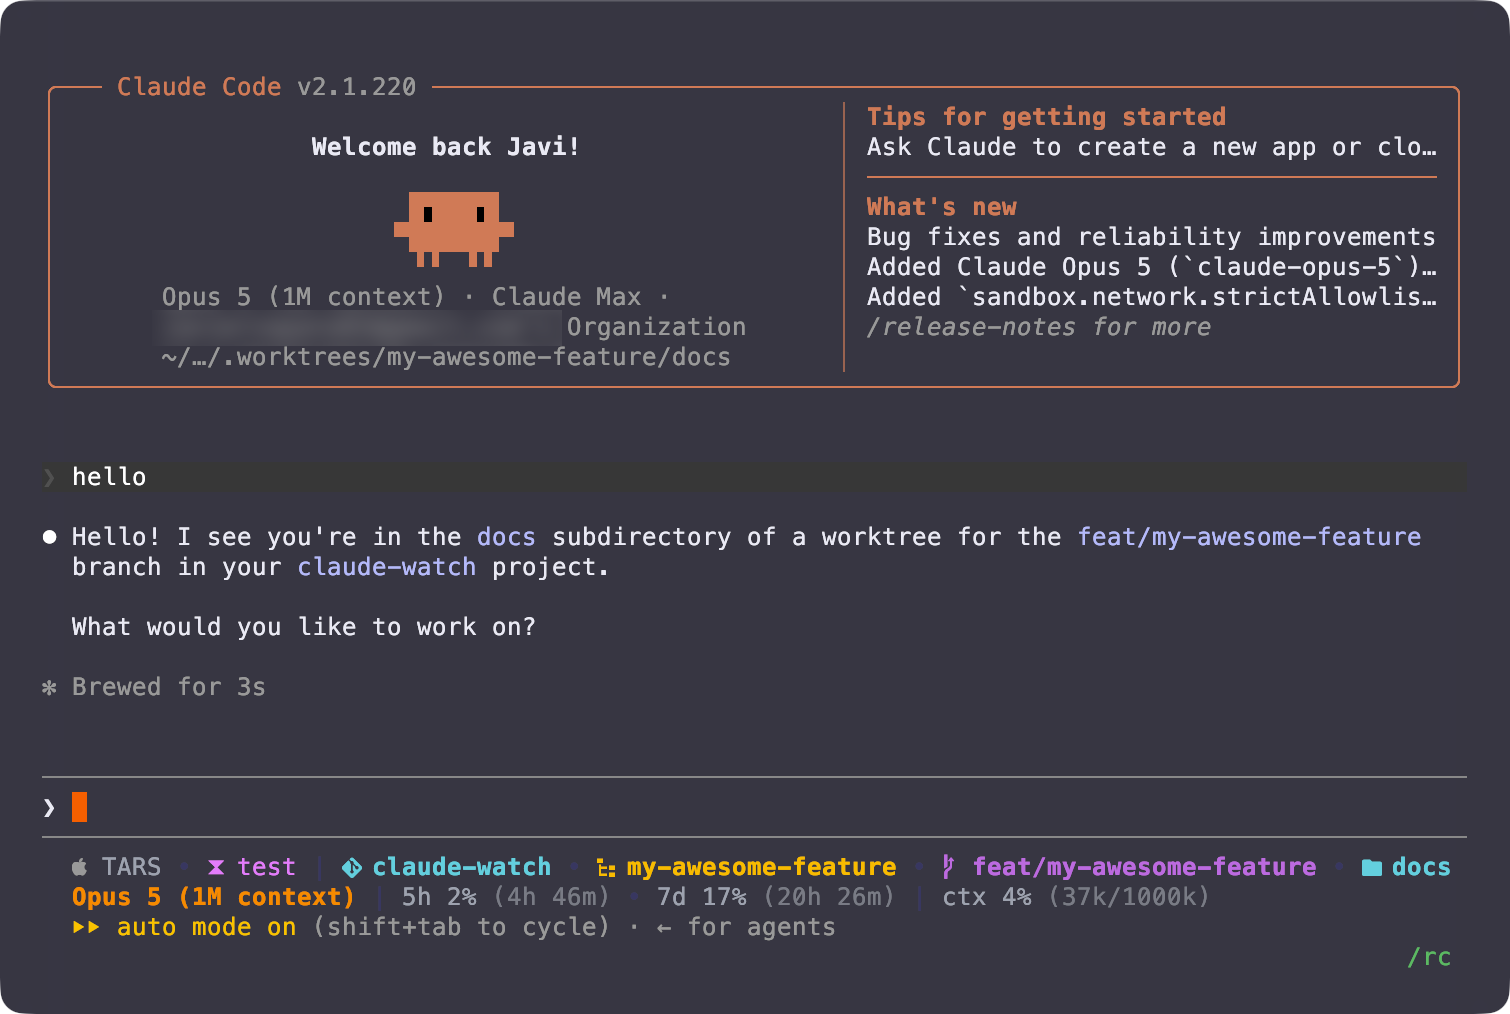
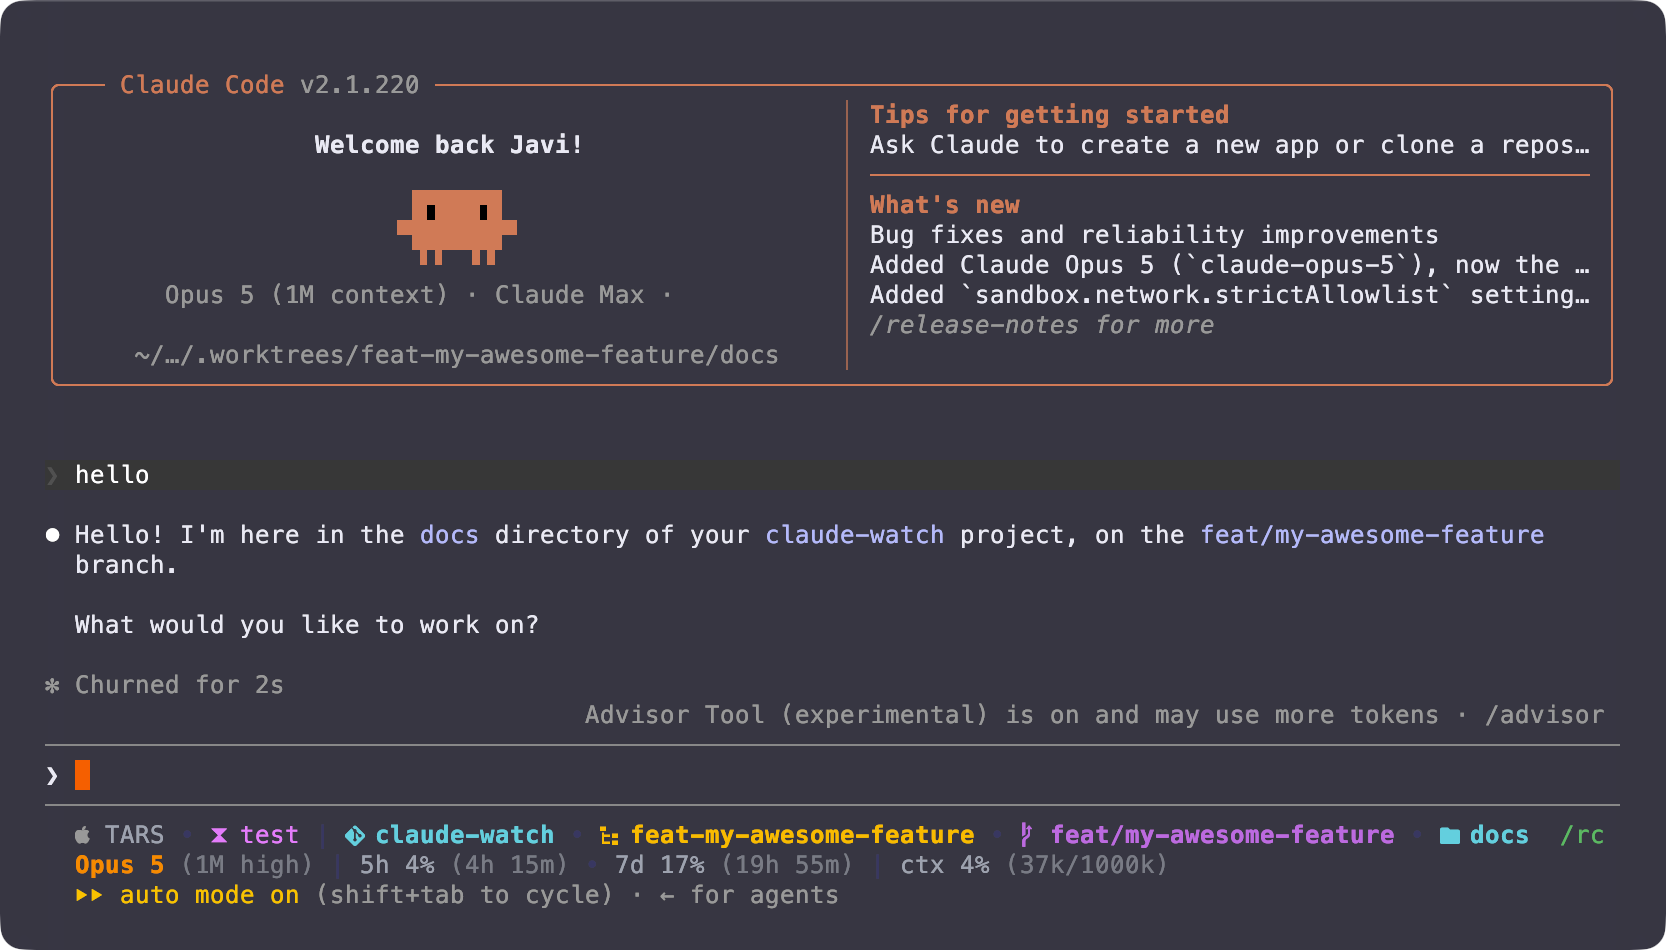
Read usage stats from Claude Code instead of the OAuth API
Claude Code now pipes rate_limits in on stdin, so the statusline no longer
needs to fetch them itself. Drop fetch-usage.sh together with its PreToolUse
and Stop hooks, its usage cache, and its /tmp token cache — the last of which
parked a live bearer token in a world-readable file for 15 minutes at a time.

resets_at arrives as epoch seconds rather than ISO-8601, so compute_delta
becomes pure arithmetic and the BSD-vs-GNU date branch goes away.

Also:

- Add reasoning effort to the model segment, as a dim suffix sharing the
  parenthetical with the 1M-context marker: "Opus 5 (1M high)".
- Round percentages in jq, never with printf "%.0f". printf's float parsing
  honours LC_NUMERIC, so under a comma-decimal locale (es_ES, de_DE, fr_FR)
  bash wrote "invalid number" to stderr and yielded 12 for 12.6. Applies to
  the pre-existing ctx segment too.
- Floor resets_at, so a fractional value cannot reach compute_delta's
  digits-only guard and silently drop the countdown.
- Use printf '%s' over echo when feeding the model name to sed, since dash's
  echo expands backslash escapes.
- README: show the statusLine block to merge rather than a cp that would
  clobber an existing settings.json.

Claude-Session: https://claude.ai/code/session_01URTqde1a5ua4gRkjRbnvk2

Changed region(s): [[0.0311, 0.0611, 0.9649, 0.3968], [0.0311, 0.7326, 0.9649, 0.9463], [0.0311, 0.4579, 0.9338, 0.7326]]

diff --git a/README.md b/README.md
@@ -4,29 +4,41 @@
 
 ## Installation
 
-**1. Copy the scripts**
+**1. Copy the script**
 
 ```sh
-cp fetch-usage.sh ~/.claude/fetch-usage.sh
 cp statusline-command.sh ~/.claude/statusline-command.sh
-chmod +x ~/.claude/fetch-usage.sh ~/.claude/statusline-command.sh
+chmod +x ~/.claude/statusline-command.sh
 ```
 
 **2. Merge `settings.json` into `~/.claude/settings.json`**
 
-Add the `statusLine` and `hooks` blocks from `settings.json` into your existing `~/.claude/settings.json`. If you don't have one yet, copy it directly:
+Add the `statusLine` block to your existing `~/.claude/settings.json`:
 
-```sh
-cp settings.json ~/.claude/settings.json
+```json
+"statusLine": {
+   "type": "command",
+   "command": "bash ~/.claude/statusline-command.sh"
+}
 ```
 
-**3. Trigger an initial fetch (optional)**
+If you have no `~/.claude/settings.json` yet, this creates one without touching an existing file:
 
 ```sh
-bash ~/.claude/fetch-usage.sh
+[ -f ~/.claude/settings.json ] || cp settings.json ~/.claude/settings.json
 ```
 
-The usage cache will otherwise populate automatically on the next tool call or Claude response.
+Already running an older claude-watch? See [Upgrading](#upgrading-from-a-version-with-fetch-usagesh) below instead.
+
+### Upgrading from a version with `fetch-usage.sh`
+
+Usage stats now come from Claude Code itself, so the fetch script, its hooks and its caches are all gone. Remove the leftovers:
+
+```sh
+rm -f ~/.claude/fetch-usage.sh /tmp/.claude_usage_cache /tmp/.claude_token_cache
+```
+
+Then drop the `hooks` block that referenced `fetch-usage.sh` from `~/.claude/settings.json`.
 
 ## How it works
 
@@ -37,18 +49,19 @@ The usage cache will otherwise populate automatically on the next tool call or C
   - **branch** — shown only when it differs from the worktree name, so the same word never appears twice. Falls back to the short commit hash on a detached HEAD. Git only.
   - **subdirectory** — the innermost component of the path below the repo root, omitted at the root. Only the last component, so deep paths do not stretch the line.
 
-  Line 2: model, usage stats and context window. Every segment is optional and separators collapse when one is missing.
-- **`fetch-usage.sh`** — reads the OAuth token from `~/.claude/.credentials.json`, caches it in `/tmp/.claude_token_cache` for 15 minutes, hits the `/oauth/usage` endpoint (3s timeout), and writes results to `/tmp/.claude_usage_cache`. On failure the stale cache is preserved.
-- **`settings.json`** — wires up the statusline command and triggers `fetch-usage.sh` in the background on `PreToolUse` and `Stop` hooks.
+  Line 2: model and reasoning effort, usage stats and context window. Every segment is optional and separators collapse when one is missing.
+
+  - **model** — the display name in bold, with a dim suffix for the reasoning effort and the 1M-context marker when either applies, e.g. `Opus 5 (1M high)`. The effort tracks mid-session `/effort` changes and is omitted on models without the parameter.
+  - **usage** — the 5-hour and 7-day rate limit windows with a countdown to each reset. Both come straight from the JSON Claude Code pipes in: no token, no network call, no cache. The whole block is absent until the first API response of a session and for accounts without subscription rate limits, in which case the segments simply do not render.
+- **`settings.json`** — wires up the statusline command. No hooks required.
 
 ## Dependencies
 
 - `jq`
-- `curl`
 - `git` (optional, for branch/worktree display)
 - `zmx` (optional, for session name display)
 - [Nerd Fonts](https://www.nerdfonts.com/) (for the platform, repo, worktree, branch and folder icons)
 
 Other SCMs are detected by their marker directory (`.hg`, `.svn`, `.jj`, `.fslckout`, `.bzr`), so nothing needs to be installed for the repo segment to appear.
 
-Works on macOS and Linux — the reset countdowns detect BSD vs GNU `date` at runtime.
+Works on macOS and Linux.
